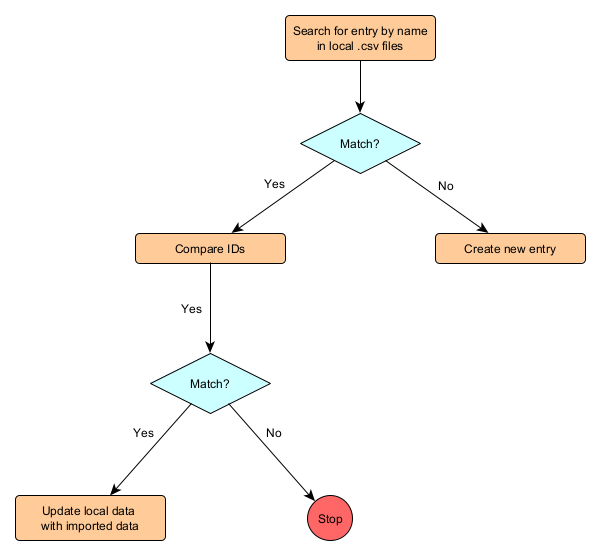
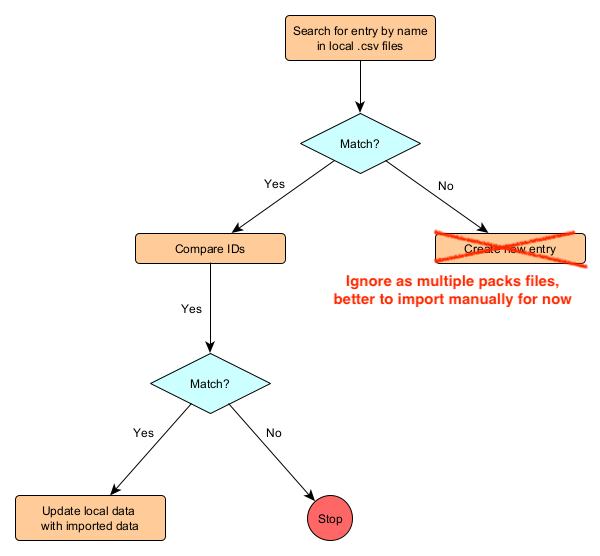
Update logic README

Changed region(s): [[0.54, 0.3975, 0.99, 0.5504]]

diff --git a/src/dnd/old-id-in-packs/README.md b/src/dnd/old-id-in-packs/README.md
@@ -7,10 +7,9 @@ This script replaces item / entity ID on incoming compendiums with the old ID in
 - If the item on own compendium does not match item on incoming
   - Change item on incoming with old ID
 - Item on own compendium doesn't exist on incoming
-  - Add own item with own ID on incoming compendium
+  - Keep new item on own compendium 
 - New item on incoming compendium
-  - Keep new item on incoming
-
+  - ~~Add own item with own ID on incoming compendium~~
 
 ## How to use
 
@@ -21,17 +20,17 @@ node -v
 # There should be a version here
 ```
 
-- Place two folders: `data/` and `packs/`.
+- Add two folders on the same directory as the script: `data/` and `packs/`.
   - - `/FoundryVTT/Data/systems/dnd5e/packs`
     - Compendium (Incoming)
     - kept in `*.db` files, line break separated JSON in 1 file
   - `/FoundryVTT/Data/worlds/{your_world_name}/data`
-    - Own (with custom data)
+    - Own data, worlds-specific (with custom data)
     - kept in `*.db` files, line break separated JSON in 1 file
 
 
 ```sh
 # packs -> folder containing compendium data files
-# data -> folder containing world data
+# data -> folder containing worlds-specific data
 sh run.sh packs/ data/
 ```
